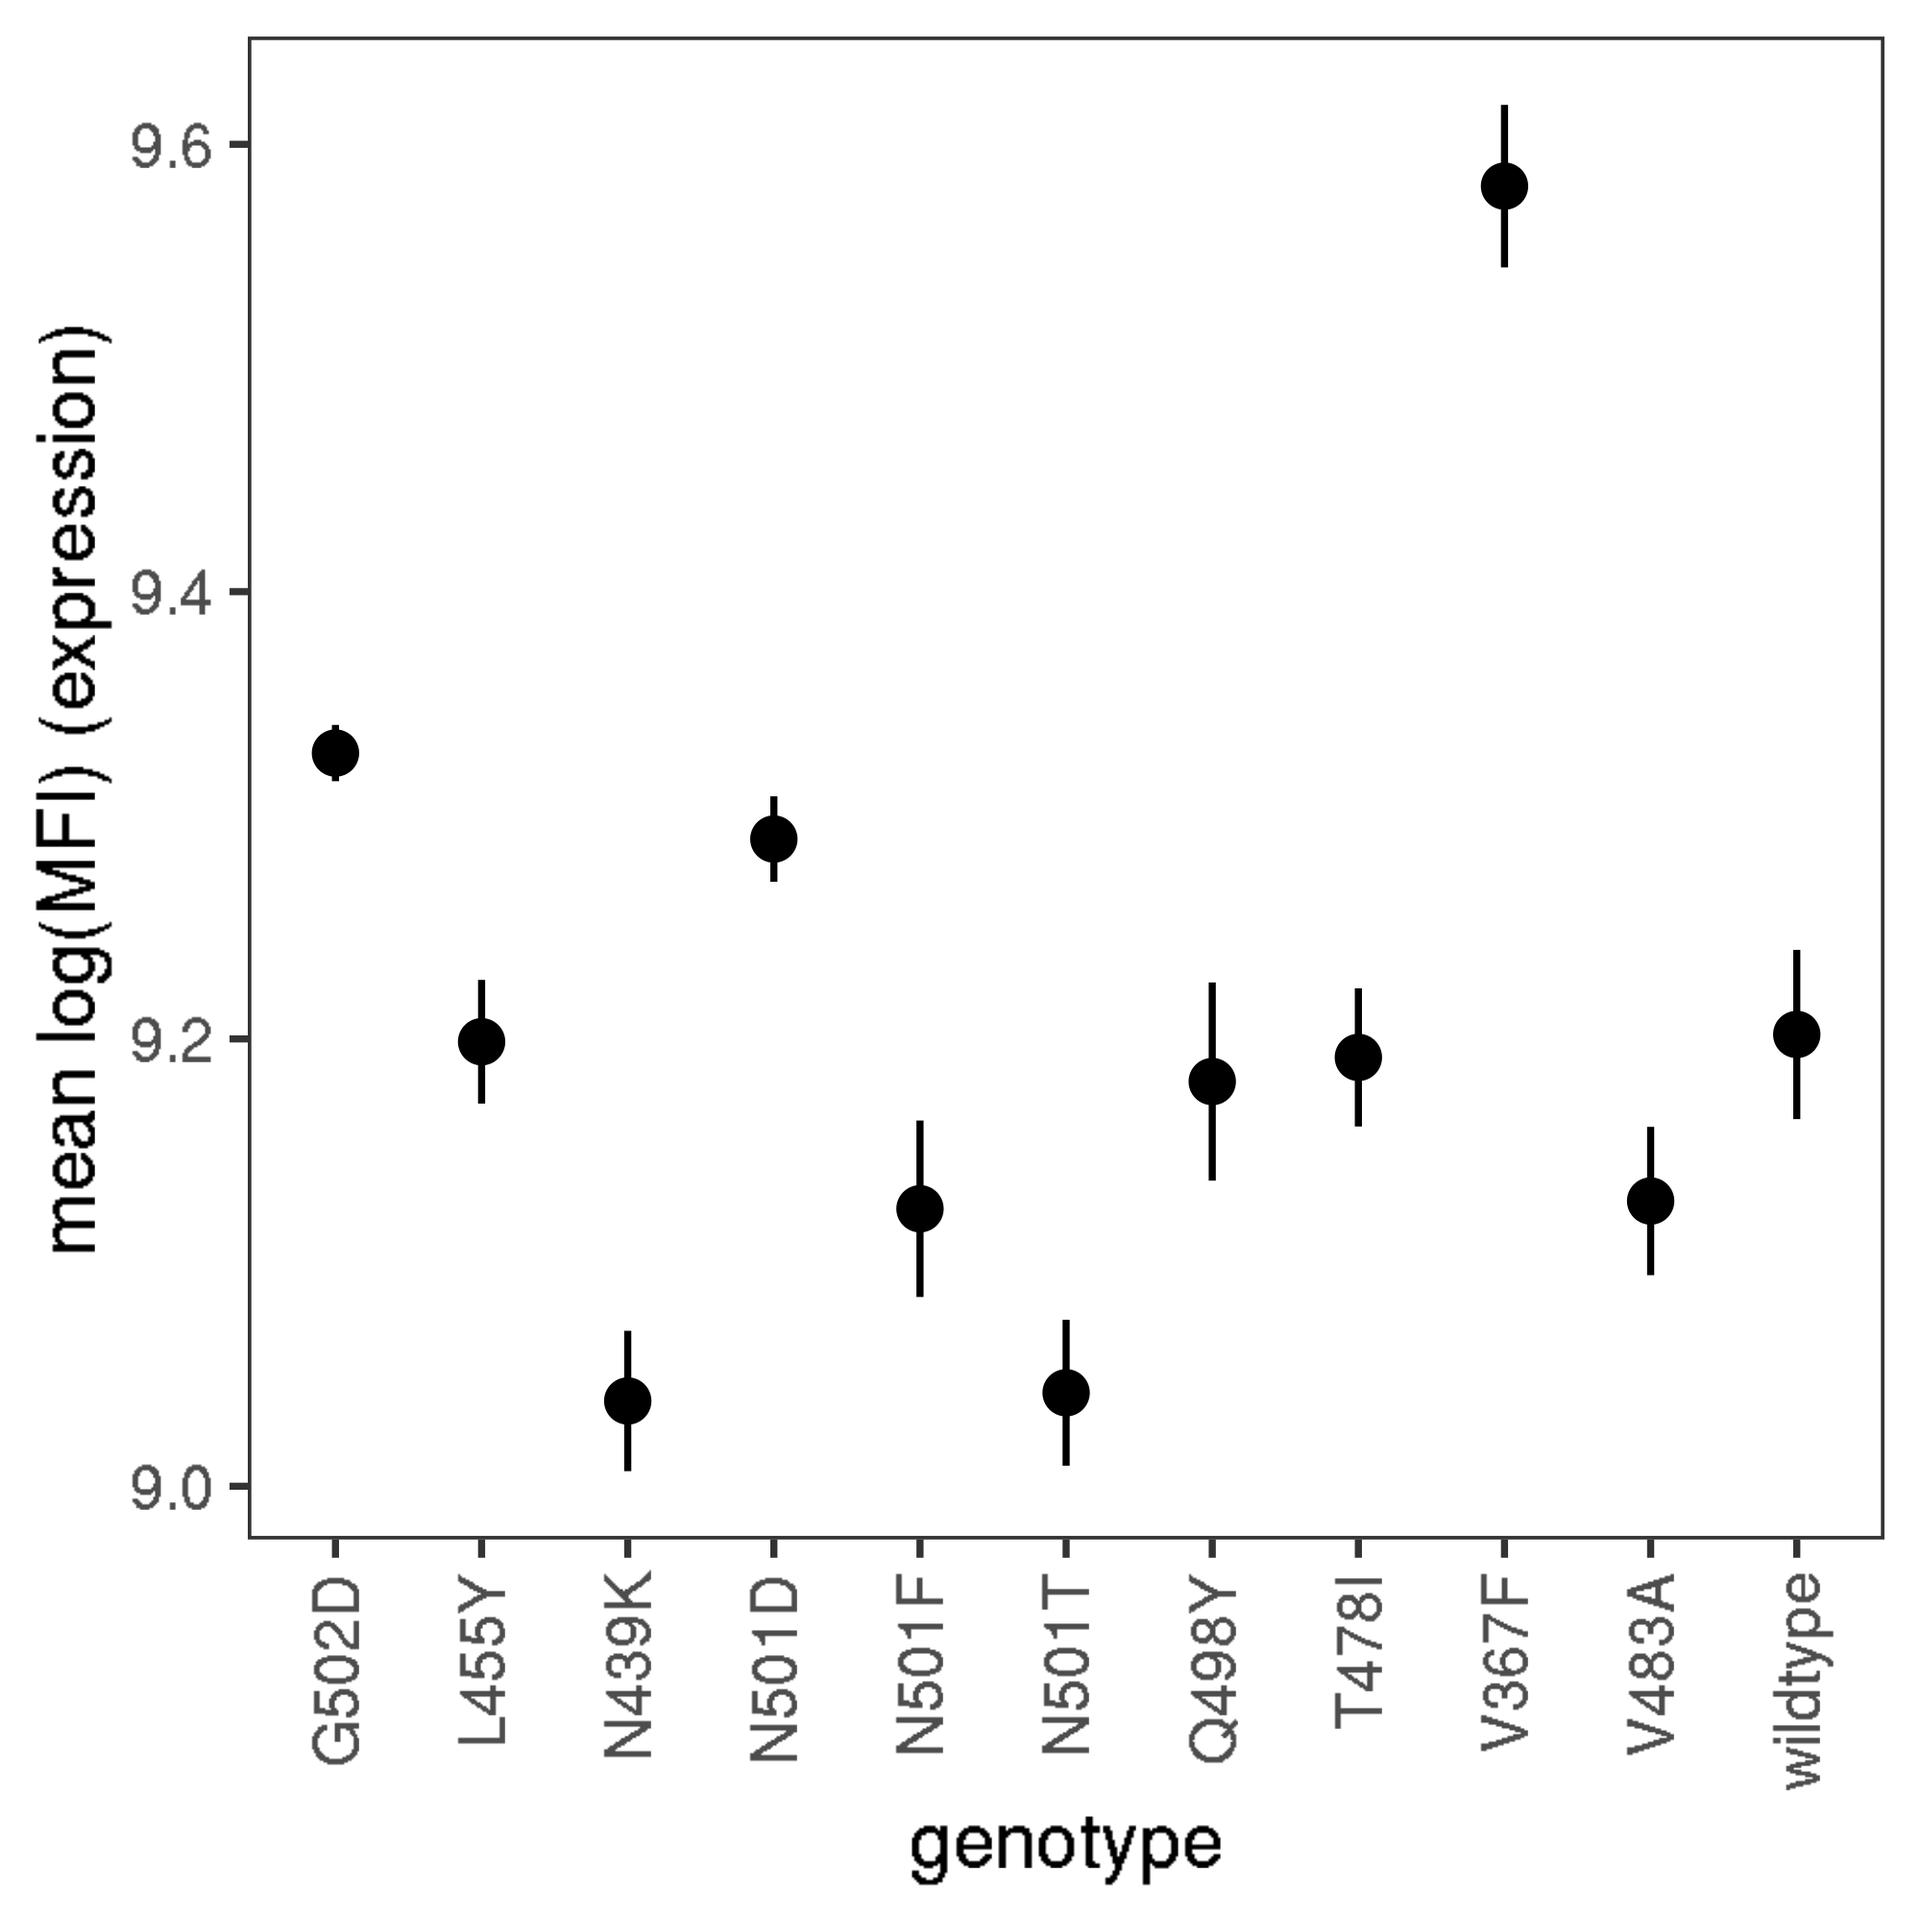
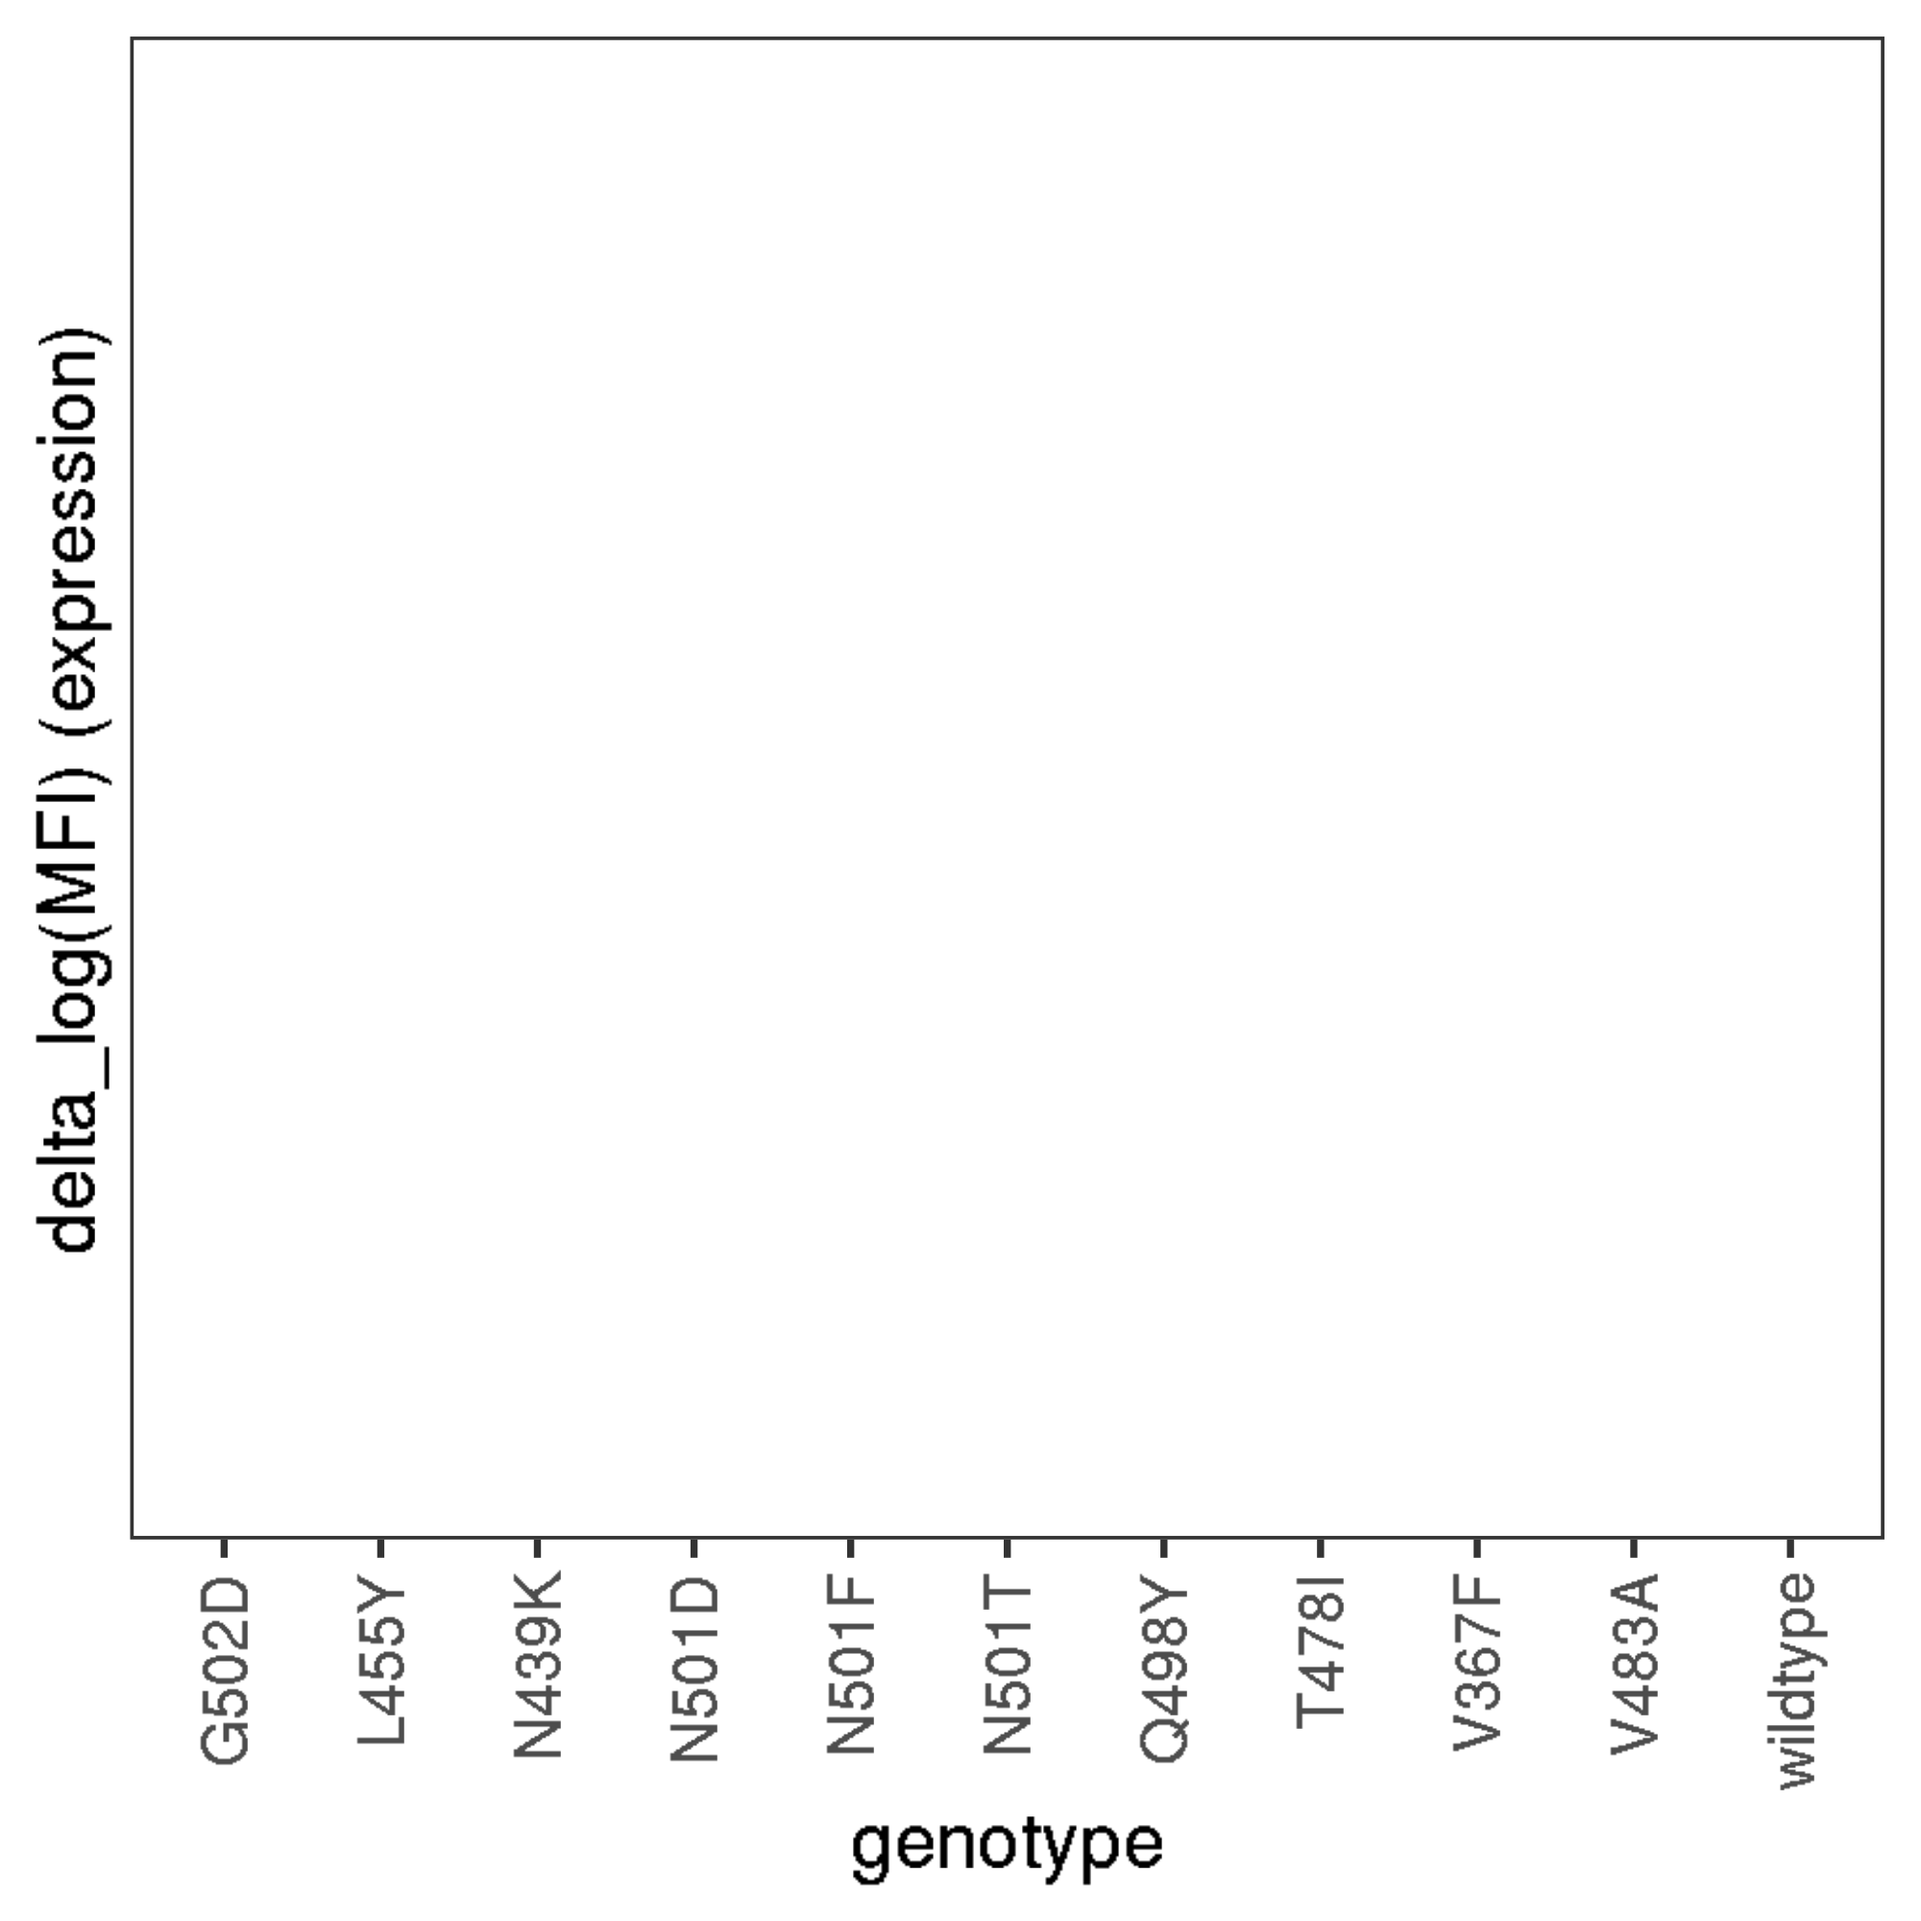
convert expression validation to delta_logMFI y-scale

diff --git a/data/isogenic_titrations/point-mut-validations.md b/data/isogenic_titrations/point-mut-validations.md
@@ -332,14 +332,14 @@ ggsave(
 ```
 
 ``` r
-p1 <- ggplot(dt, aes(x=genotype, y=log_geomean_FITC)) +
+p1 <- ggplot(dt, aes(x=genotype, y=log_geomean_FITC-mean(as.data.frame(dt[dt$genotype=="wildtype","log_geomean_FITC"])$log_geomean_FITC,na.rm=T))) +
   #stat_summary(fun.y=mean,geom="point",size=3,shape=16)+
   stat_summary(fun.y=mean,
                fun.ymin=function(x) mean(x) - sd(x)/sqrt(length(x)),
                fun.ymax=function(x) mean(x) + sd(x)/sqrt(length(x)),
                geom="pointrange")+
   xlab("genotype") +
-  ylab("mean log(MFI) (expression)") +
+  ylab("delta_log(MFI) (expression)") +
   #facet_wrap(~ expt, scales="free_x") +
   theme_bw() +
   theme(text = element_text(size=12),
